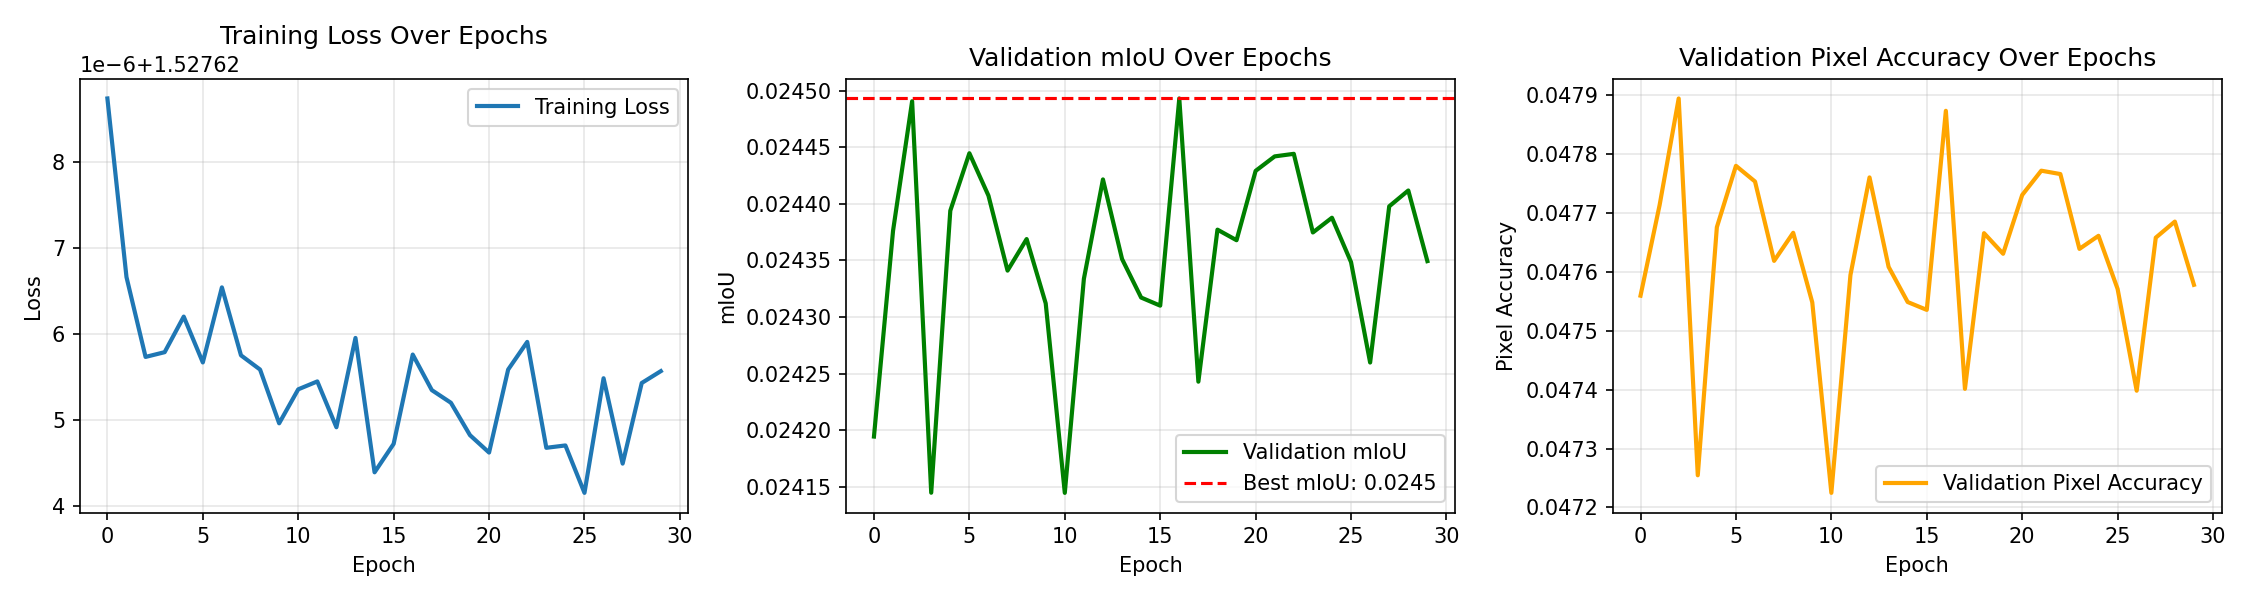
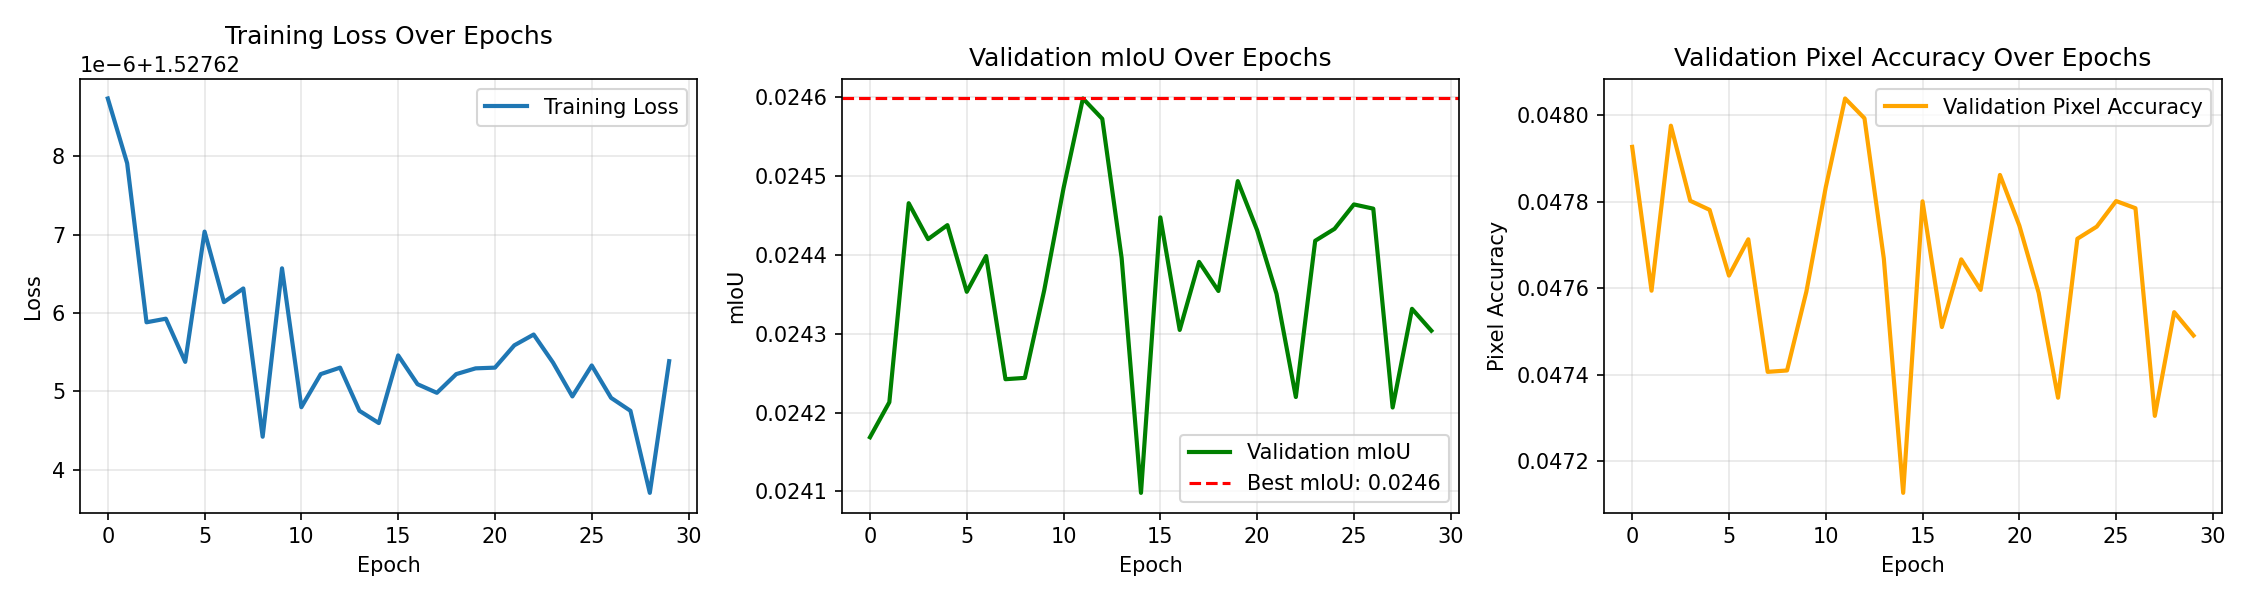
Add channel dimension to predictions and masks in visualize_predictions; create download_voc.py for dataset retrieval; add prediction and training curve images.

diff --git a/Advanced_Image_Segmentation/codes/lab05_student.py b/Advanced_Image_Segmentation/codes/lab05_student.py
@@ -1142,7 +1142,7 @@ def visualize_predictions(model, dataloader, device, num_samples=4, is_minisam=F
             outputs, _ = model(images_batch, points, point_labels)
         else:
             outputs = model(images_batch)
-        predictions = outputs.argmax(dim=1)
+        predictions = outputs.argmax(dim=1).unsqueeze(1)  # Add channel dimension
 
         # Opcional: limitar el número de muestras para la visualización
         batch_size = images_batch.size(0)
@@ -1150,7 +1150,7 @@ def visualize_predictions(model, dataloader, device, num_samples=4, is_minisam=F
         
         # Seleccionar solo las muestras que se van a visualizar
         images_to_plot = images_batch[:num_to_plot]
-        masks_to_plot = masks_batch[:num_to_plot]
+        masks_to_plot = masks_batch[:num_to_plot].unsqueeze(1)  # Add channel dimension
         predictions_to_plot = predictions[:num_to_plot]
 
     # 4. Create figure with subplots: (num_samples, 3)

diff --git a/download_voc.py b/download_voc.py
@@ -1,0 +1,6 @@
+import kagglehub
+
+# Download latest version
+path = kagglehub.dataset_download("gopalbhattrai/pascal-voc-2012-dataset")
+
+print("Path to dataset files:", path)
